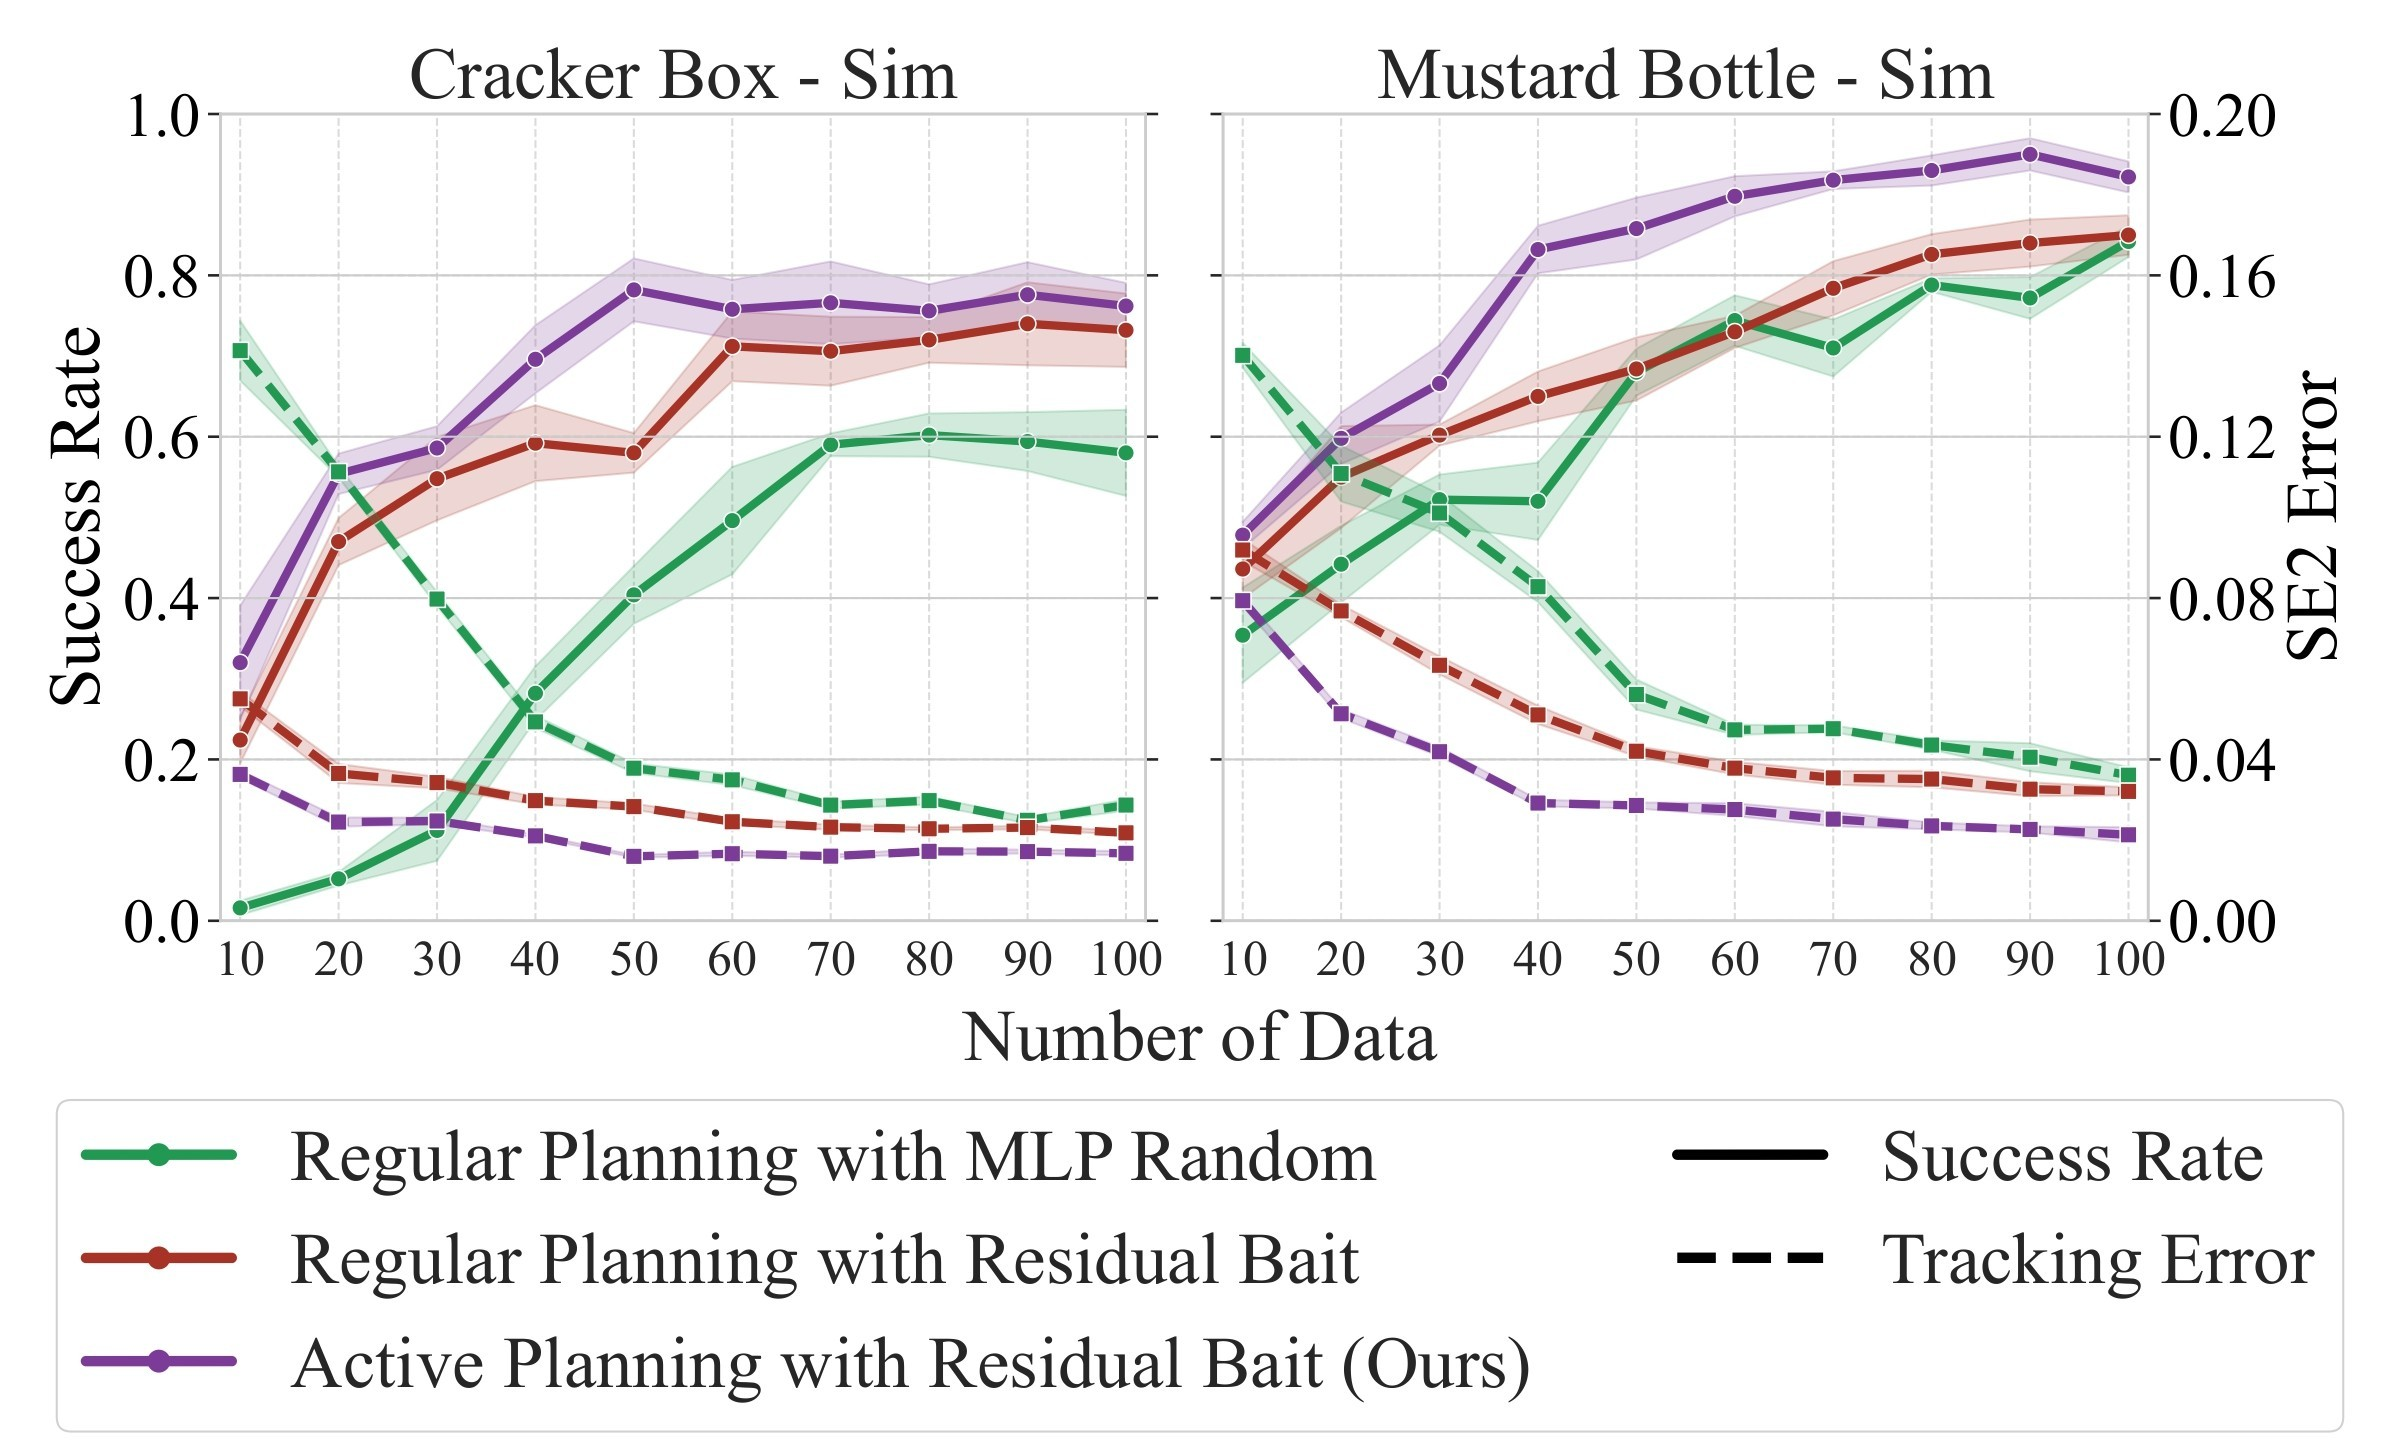
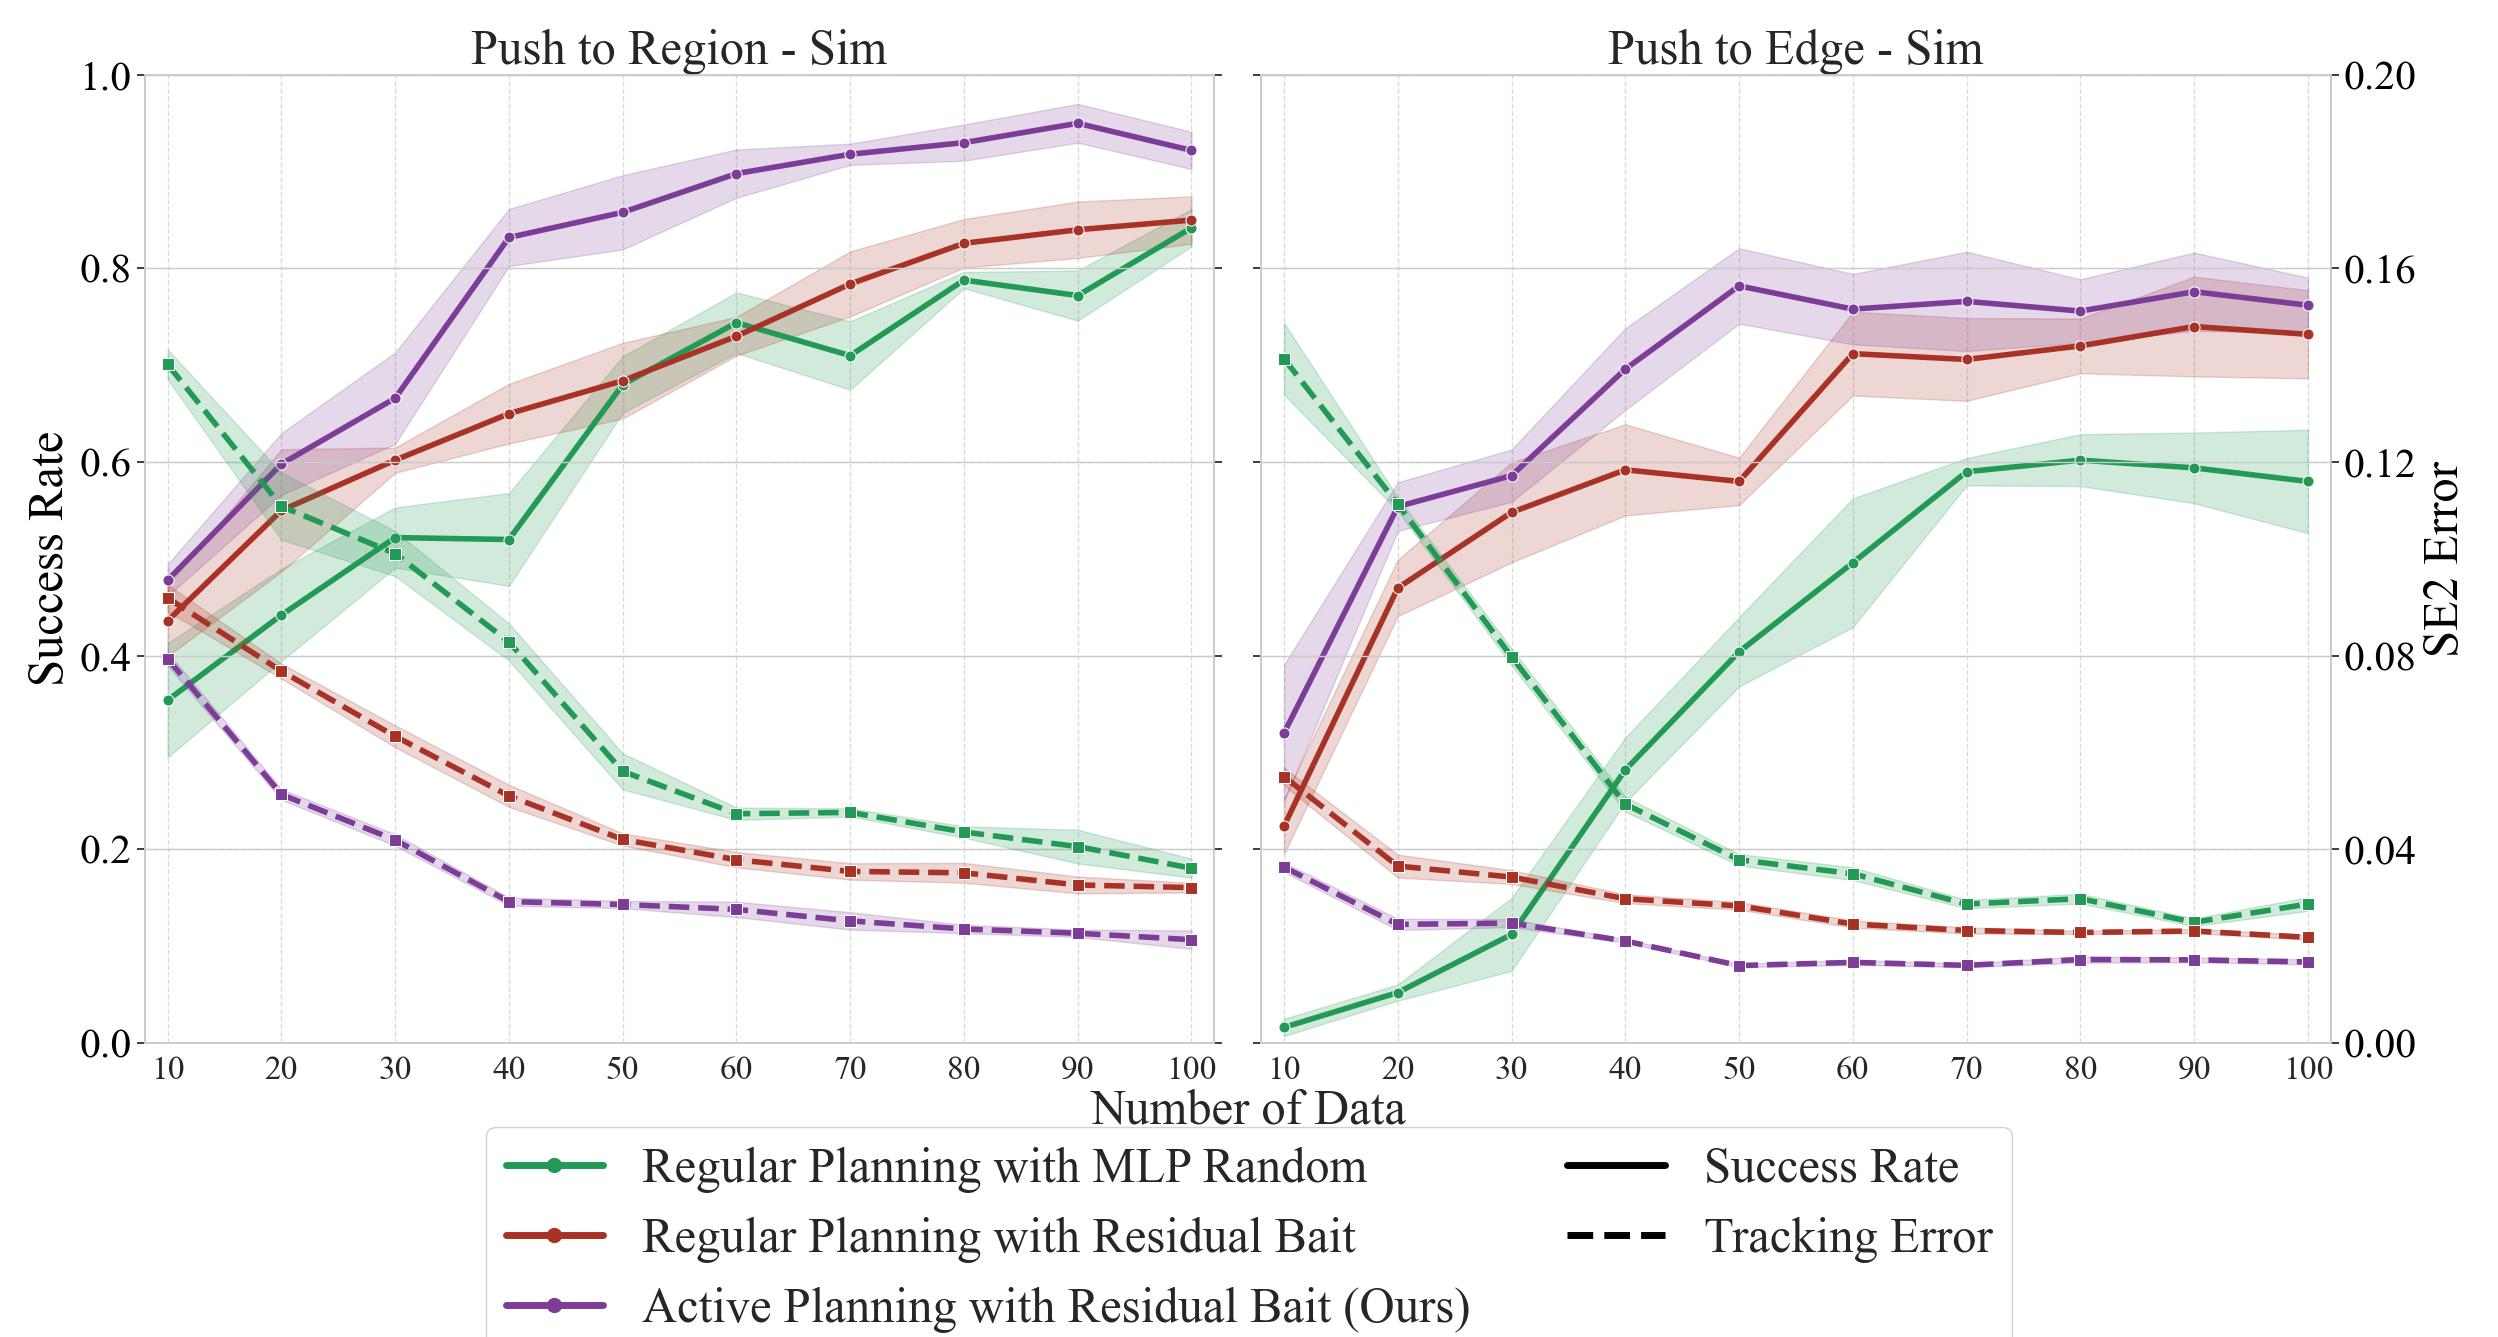
update plotting

diff --git a/scripts/plot_planning.py b/scripts/plot_planning.py
@@ -201,6 +201,10 @@ def main():
         clean_name = (
             obj_name.replace("_", " ").replace("flipped", "").title().strip()
         )
+        if "cracker" in clean_name.lower():
+            clean_name = "Push to Edge"
+        if "mustard" in clean_name.lower():
+            clean_name = "Push to Region"
         if obj_name.startswith("real_"):
             clean_name = clean_name.replace("Real ", "") + " - Real"
         else:
